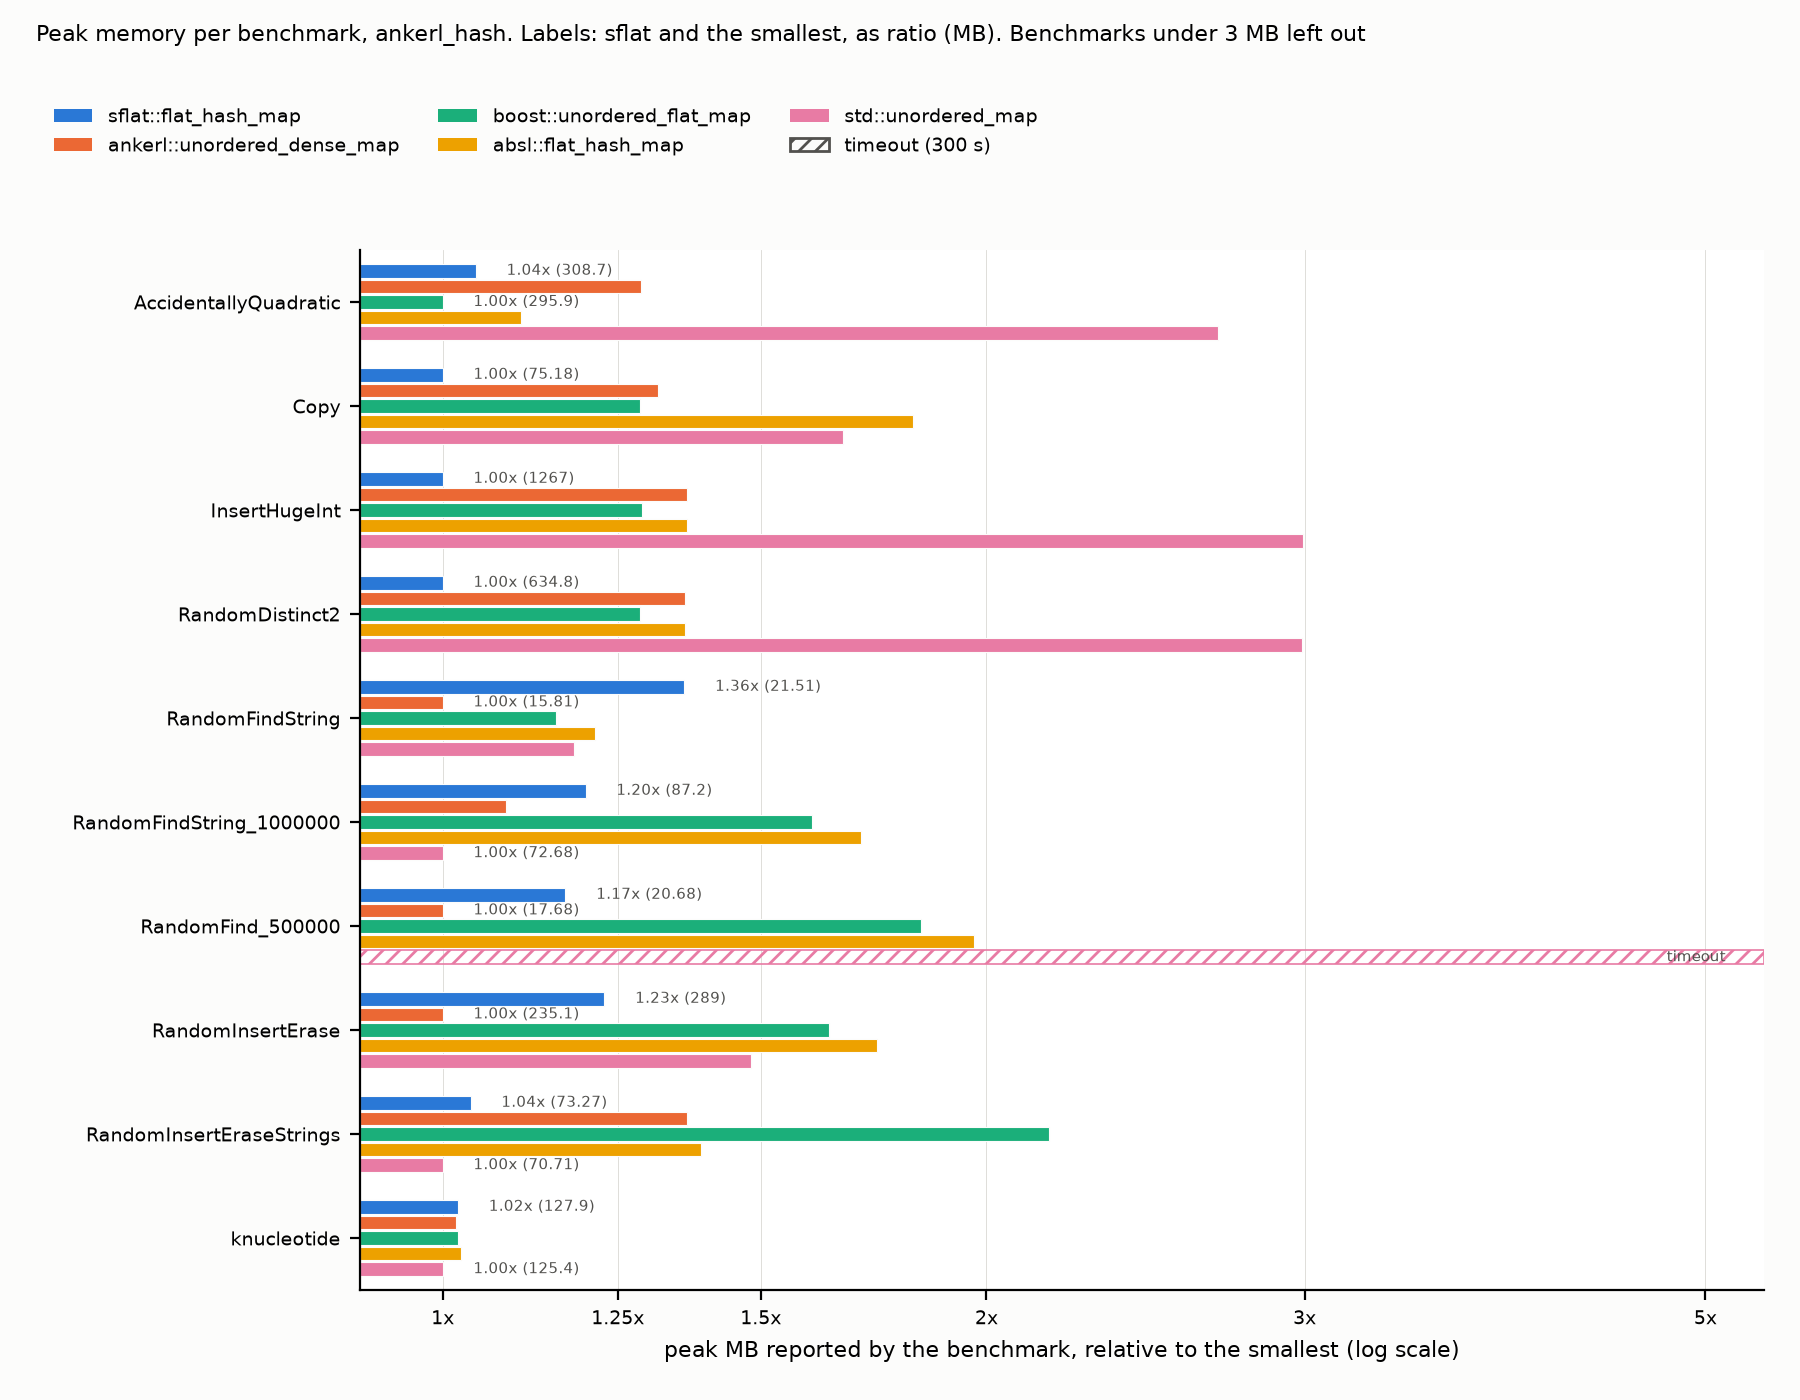
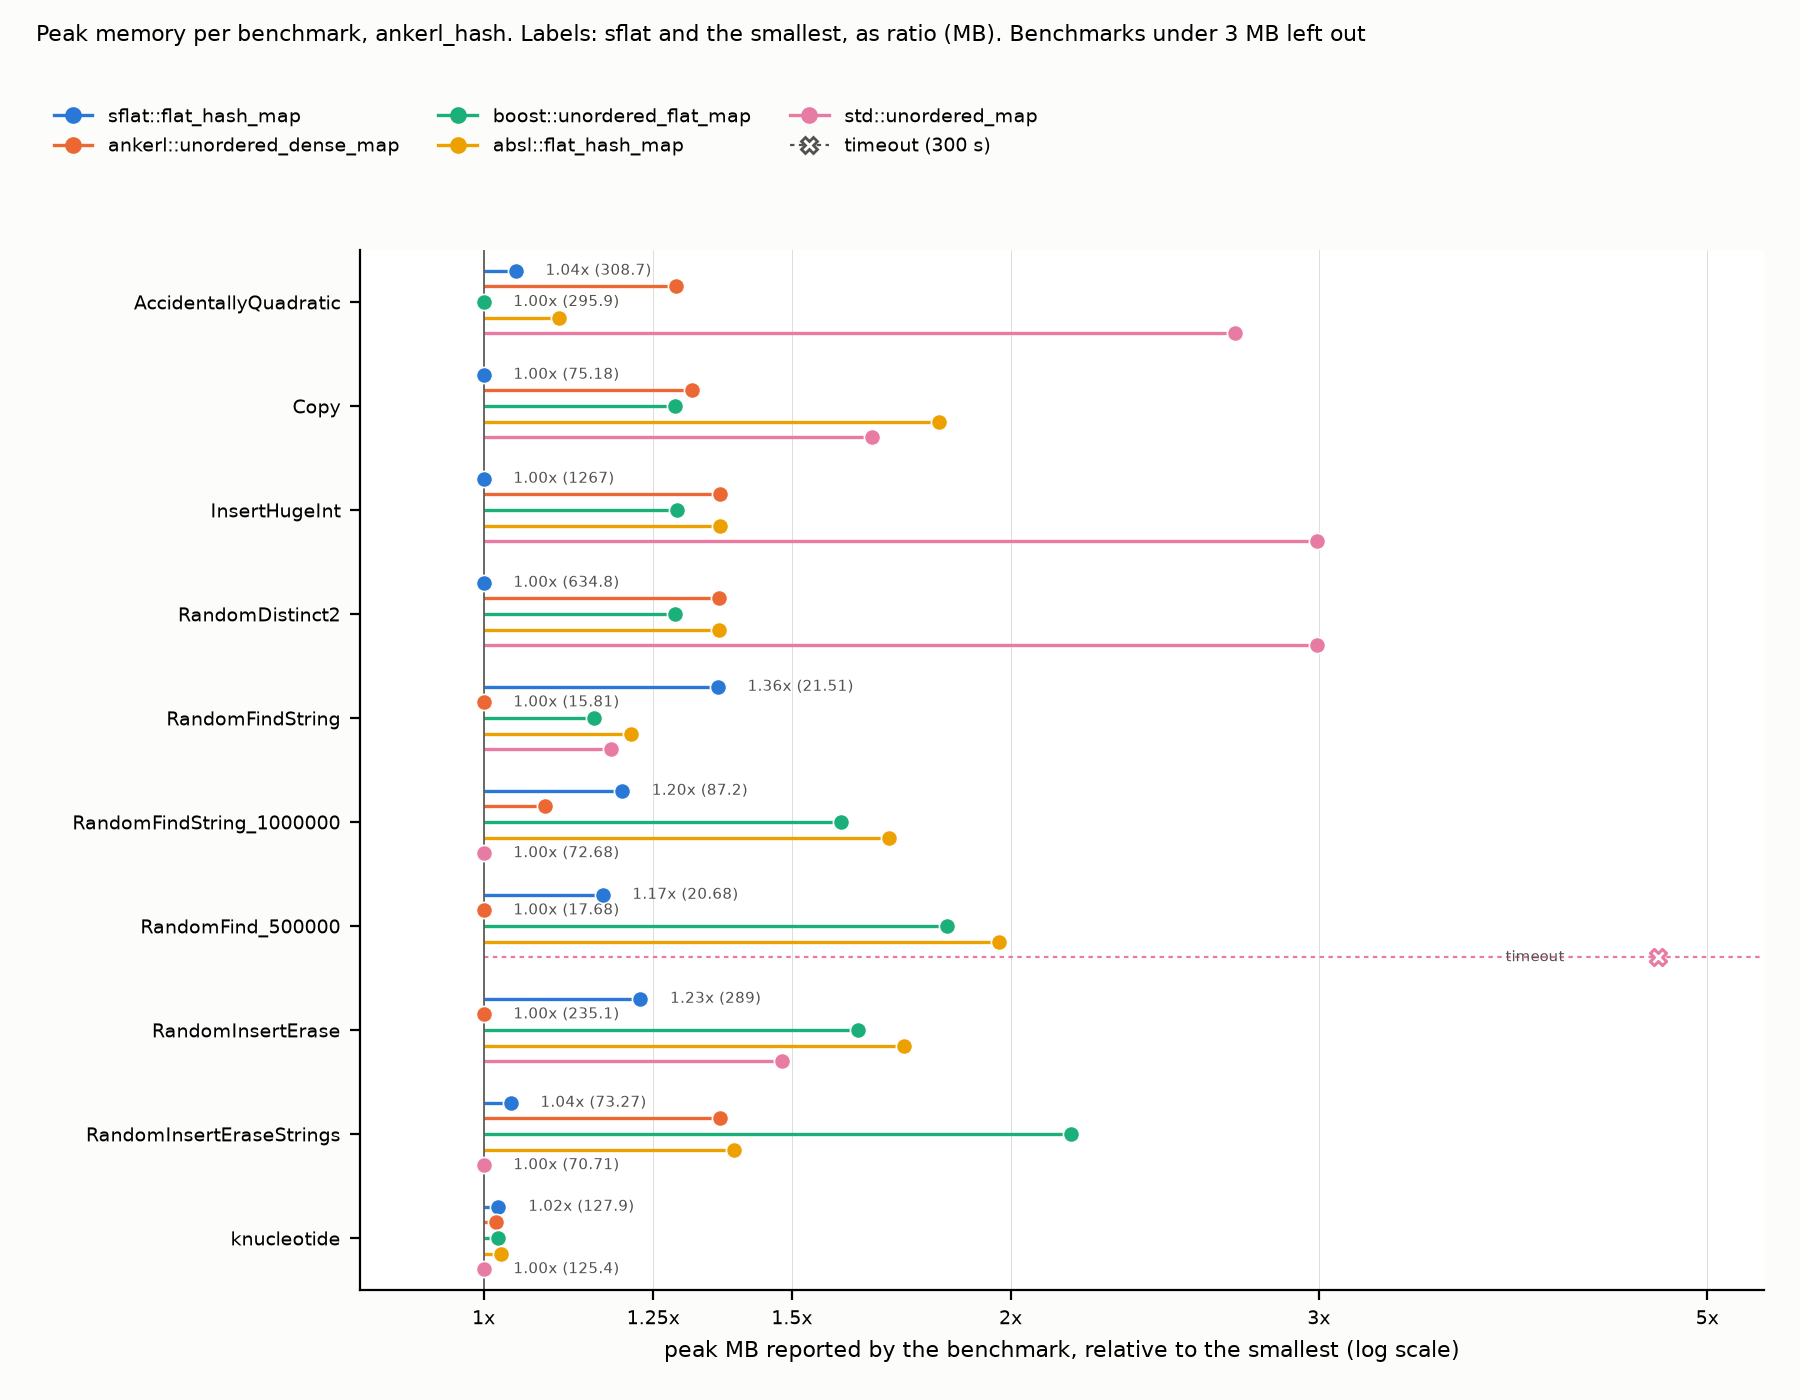
plot_subset: dot charts, so the best map at 1x is visible too

diff --git a/tools/plot_subset.py b/tools/plot_subset.py
@@ -1,7 +1,7 @@
 #!/usr/bin/env python3
-"""Bar charts of the run_subset.sh results: per benchmark, the total time and the peak memory of each map relative to
+"""Dot charts of the run_subset.sh results: per benchmark, the total time and the peak memory of each map relative to
 the best map of that benchmark (log axis, 1x = best). A run killed by the timeout (exit 124 in progress.log) is drawn
-as a hatched bar to the edge of the axis and labelled "timeout".
+as a dashed line to the edge of the axis with an open X marker, labelled "timeout".
 
 Usage: python3 plot_subset.py RAW_DIR PROGRESS_LOG OUT_DIR
 """
@@ -9,7 +9,7 @@ import csv, os, re, sys
 import matplotlib
 matplotlib.use("Agg")
 import matplotlib.pyplot as plt
-from matplotlib.patches import Patch
+from matplotlib.lines import Line2D
 
 raw, prog, out = sys.argv[1:4]
 MAPS = [("sflat_flat_hash_map", "sflat::flat_hash_map", "#2a78d6"),
@@ -49,7 +49,7 @@ def plot(hash_, idx, title, xlabel, path, skip_small):
         for mi, (key, label, color) in enumerate(MAPS):
             ratios.append(d[key][idx] / best if d.get(key) else None)
     top = max(r for r in ratios if r) * 1.8
-    L = 0.9  # the best map (1x) gets a short bar instead of none
+    L = 0.85  # room left of 1x so that the markers of the best maps are fully visible
     for bi, b in enumerate(benches):
         d = data[(hash_, b)]
         best = min(v[idx] for v in d.values() if v)
@@ -57,11 +57,13 @@ def plot(hash_, idx, title, xlabel, path, skip_small):
             y = bi + (mi - (n - 1) / 2) * 0.15
             v = d.get(key)
             if v is None:
-                ax.barh(y, top - L, left=L, height=0.13, color="none", edgecolor=color, hatch="////", linewidth=0.6)
-                ax.text(top / 1.05, y, "timeout", ha="right", va="center", fontsize=5.5, color="#52514e")
+                ax.hlines(y, 1, top, color=color, linewidth=0.8, linestyle=(0, (2, 2)))
+                ax.scatter([top / 1.15], [y], s=34, marker="X", facecolor="white", edgecolor=color, linewidth=1.1, zorder=3)
+                ax.text(top / 1.3, y, "timeout", ha="right", va="center", fontsize=5.5, color="#52514e")
             else:
                 r = v[idx] / best
-                ax.barh(y, r - L, left=L, height=0.13, color=color, edgecolor="#fcfcfb", linewidth=0.4)
+                ax.hlines(y, 1, r, color=color, linewidth=1.2)
+                ax.scatter([r], [y], s=34, color=color, edgecolor="#fcfcfb", linewidth=0.6, zorder=3)
                 if mi == 0 or r == 1:  # label the first map (sflat) and the best one
                     ax.text(r * 1.04, y, "%.2fx (%.4g)" % (r, v[idx]), va="center", fontsize=5.5, color="#52514e")
     ax.set_xscale("log")
@@ -76,11 +78,13 @@ def plot(hash_, idx, title, xlabel, path, skip_small):
     ax.set_ylim(len(benches) - 0.5, -0.5)
     ax.tick_params(axis="x", labelsize=7)
     ax.grid(True, axis="x", which="major", linewidth=0.3, color="#d9d8d3")
+    ax.axvline(1, color="#52514e", linewidth=0.6)
     ax.set_axisbelow(True)
     for s in ("top", "right"):
         ax.spines[s].set_visible(False)
-    handles = [Patch(facecolor=c, label=l) for _, l, c in MAPS] + \
-              [Patch(facecolor="none", edgecolor="#52514e", hatch="////", label="timeout (300 s)")]
+    handles = [Line2D([0], [0], color=c, marker="o", markersize=5, linewidth=1.2, label=l) for _, l, c in MAPS] + \
+              [Line2D([0], [0], color="#52514e", marker="X", markerfacecolor="white", markersize=6, linewidth=0.8,
+                      linestyle=(0, (2, 2)), label="timeout (300 s)")]
     # fixed margins in inches: title, then the legend (3 columns x 2 rows), then the plot, so they cannot overlap
     H = fig.get_figheight()
     fig.suptitle(title, fontsize=8, x=0.02, ha="left", y=1 - 0.12 / H)

diff --git a/docs/results/2026-11-14-i5-3230M-subset/README.md b/docs/results/2026-11-14-i5-3230M-subset/README.md
@@ -18,7 +18,7 @@ with `std_hash` and `ankerl_hash`, on the original registered benchmarks (except
 
 ## Total time
 
-Relative to the fastest map of each benchmark (log axis). Labels: sflat and the best map, as ratio (seconds). Hatched = timeout.
+Relative to the fastest map of each benchmark (log axis). Labels: sflat and the best map, as ratio (seconds). Dashed line ending in an open X = timeout.
 
 ![time, std_hash](figures/time_std_hash.png)
 
@@ -28,7 +28,7 @@ Relative to the fastest map of each benchmark (log axis). Labels: sflat and the 
 
 Relative to the smallest map of each benchmark. The five benchmarks that use less than 3 MB (GameOfLife, IterateIntegers,
 RandomFind_200 and _2000) are left out: there the memory is mostly the runtime. A timed-out run has no comparable peak and is
-hatched.
+drawn as a dashed line with an open X.
 
 ![memory, std_hash](figures/memory_std_hash.png)
 
